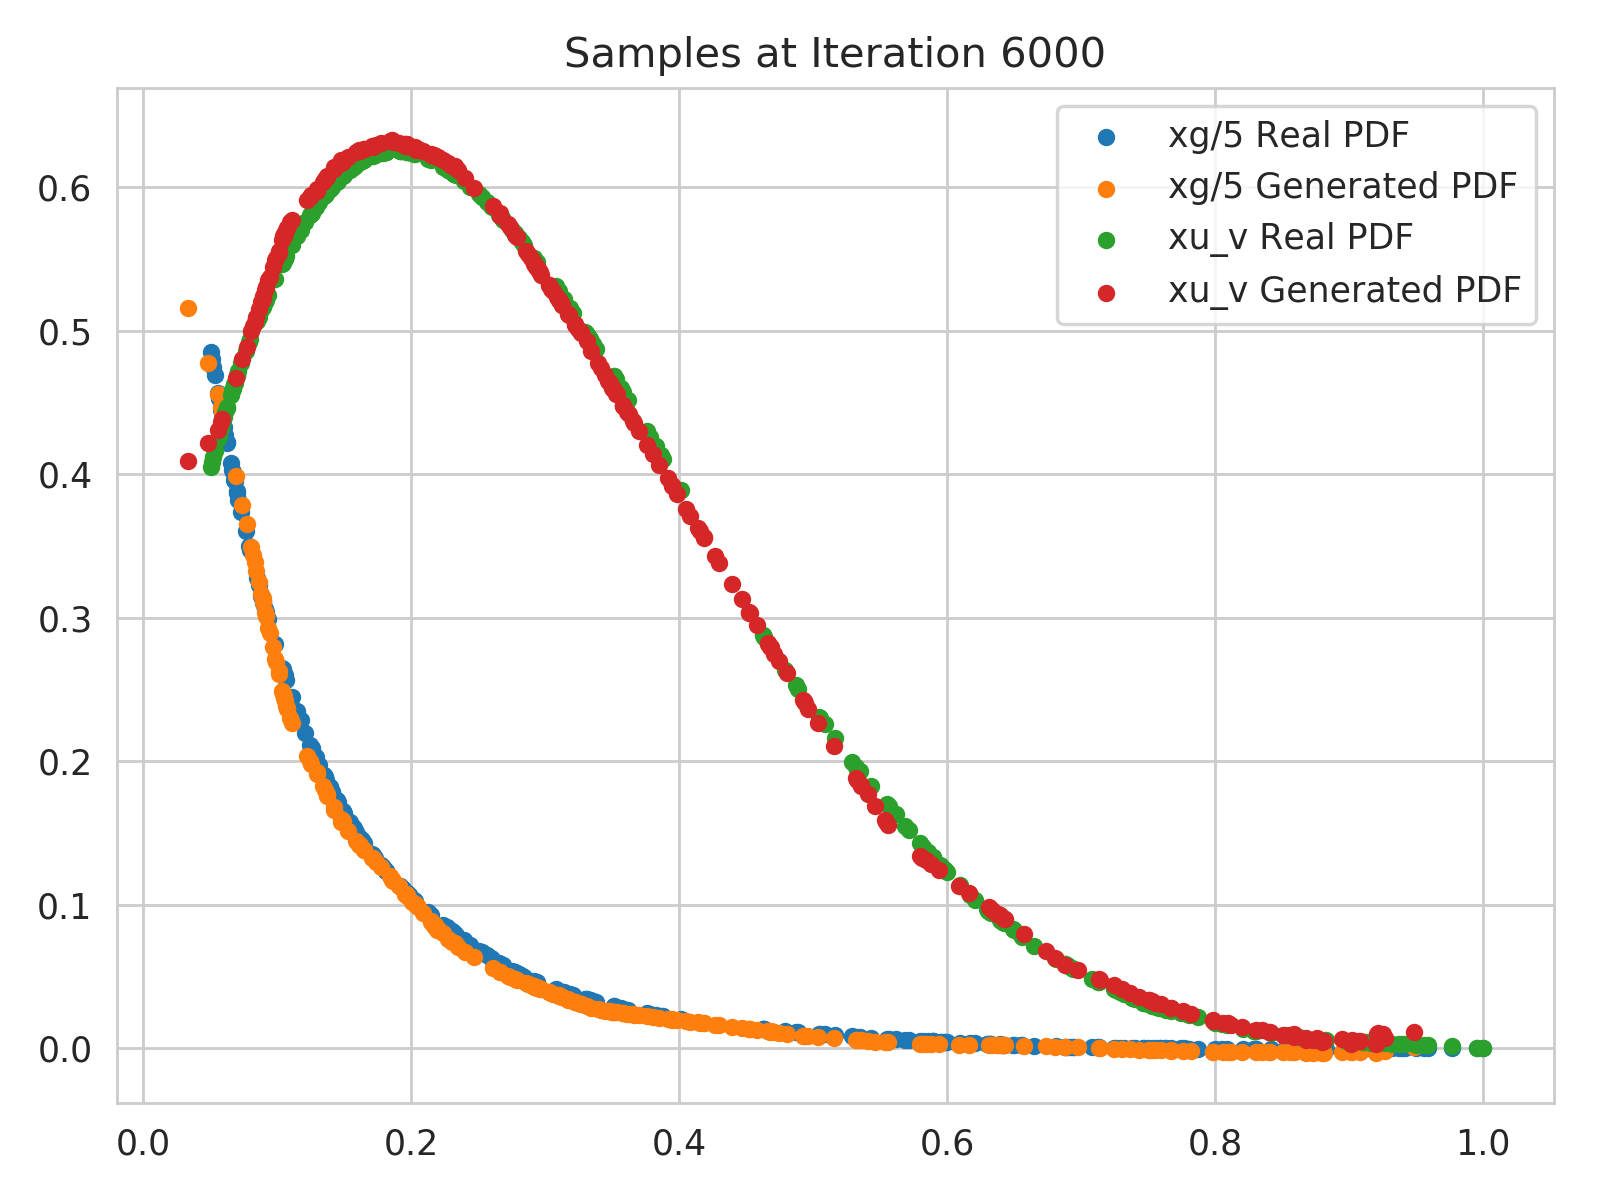
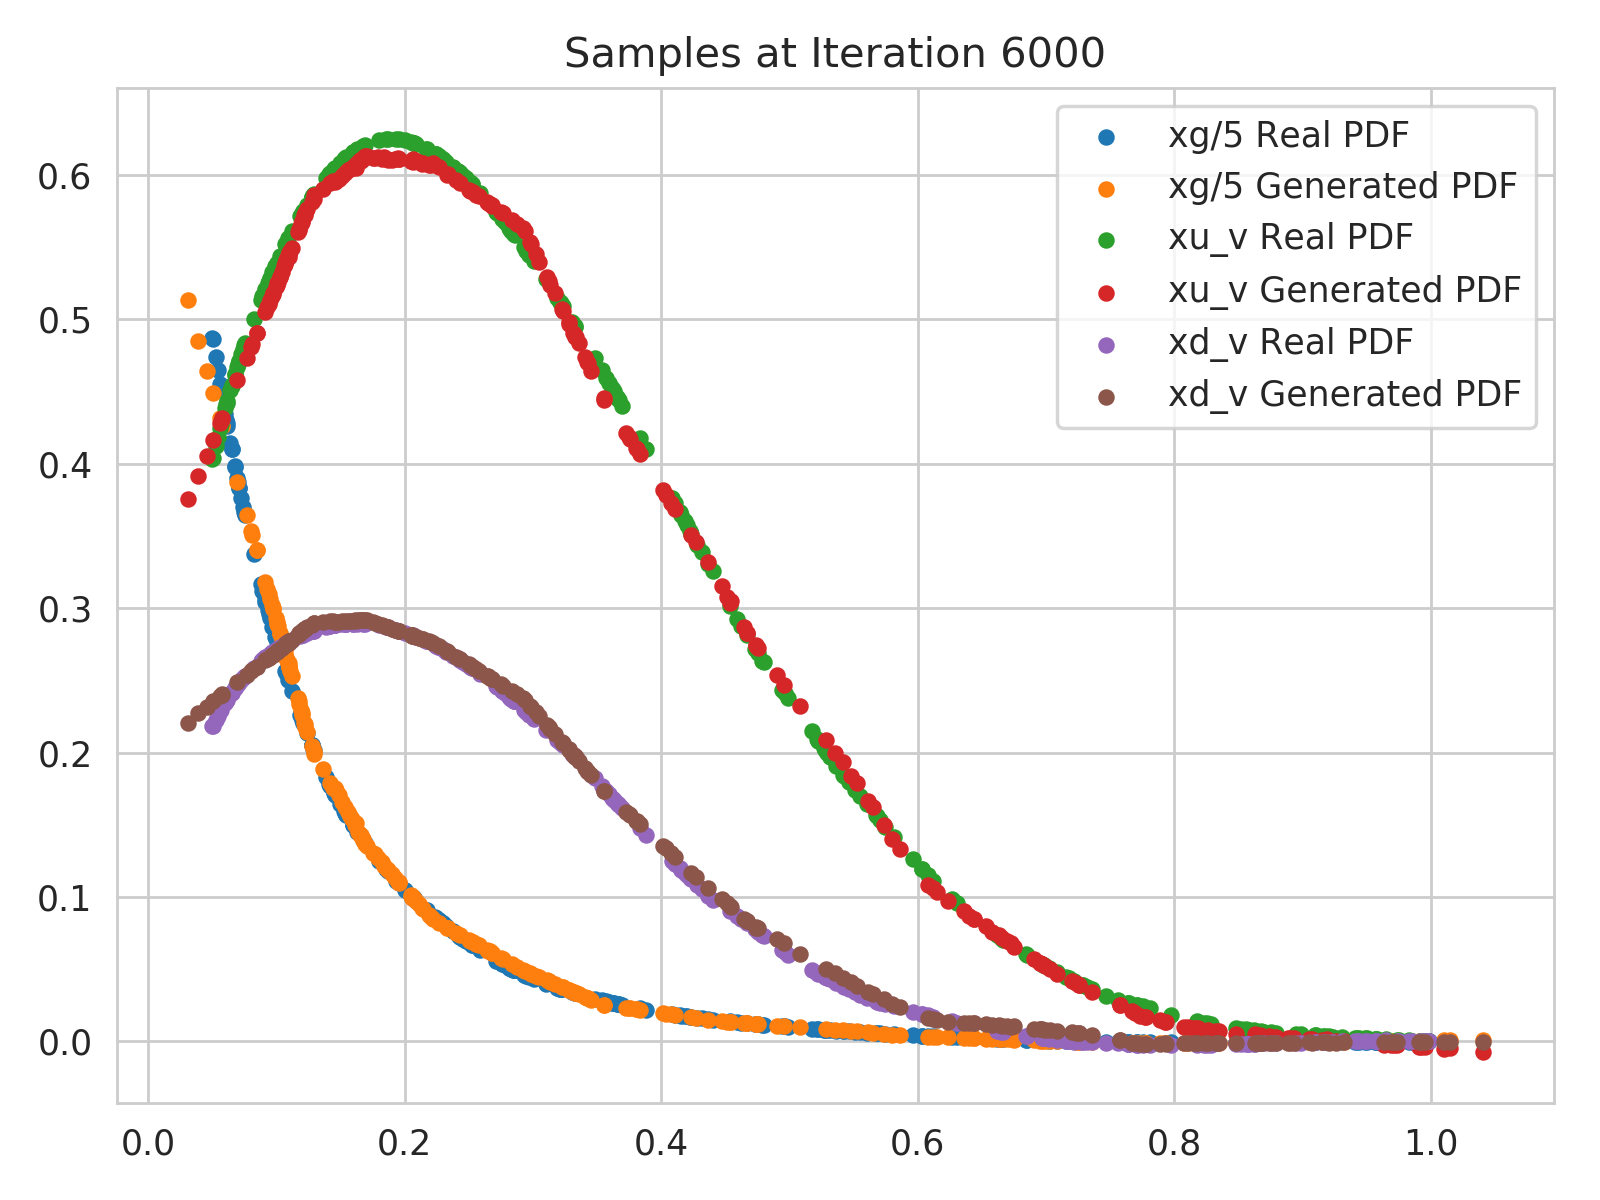
Add another d valence quark pllots

diff --git a/PDFs_Replicas/GANs_Gluon.py b/PDFs_Replicas/GANs_Gluon.py
@@ -36,7 +36,8 @@ def sample_pdf(n=1000):
     for x in x_pdf:
         y_pdf1 = pdf_central.xfxQ2(21,x,Q_pdf)/5                                # gluon
         y_pdf2 = pdf_central.xfxQ2(2,x,Q_pdf)-pdf_central.xfxQ2(-2,x,Q_pdf)     # valence u_quark
-        data.append([x,y_pdf1,y_pdf2])
+        y_pdf3 = pdf_central.xfxQ2(1,x,Q_pdf)-pdf_central.xfxQ2(-1,x,Q_pdf)     # valence u_quark
+        data.append([x,y_pdf1,y_pdf2,y_pdf3])
     return np.array(data)
 
 # Define the function which samples the Data
@@ -53,6 +54,10 @@ def sorting(lst):
 
 # Define the hidden layers 
 hidden = [16,16]
+# Take the data shape
+data_shape = sample_pdf().shape[1]
+
+
 # Implement the GENERATOR Model
 
 # The following function takes the follwoing as input:
@@ -66,10 +71,9 @@ def generator(input_noise, layers_size=hidden,reuse=False):
         # Define the 1st and 2nd layer with "leaky_relu" as an activation fucnction
         L1 = tf.layers.dense(input_noise,layers_size[0],activation=tf.nn.leaky_relu)
         L2 = tf.layers.dense(L1,layers_size[1],activation=tf.nn.leaky_relu)
-        # Define the output layer with 2 nodes
+        # Define the output layer with data_shape nodes
         # This dimension is correspond to the dimension of the "real dataset"
-        output = tf.layers.dense(L2,3)
-
+        output = tf.layers.dense(L2,data_shape)
     return output
 
 # Implement the DISCRIMINATOR Model
@@ -85,18 +89,17 @@ def discriminator(input_true,layers_size=hidden,reuse=False):
         L1 = tf.layers.dense(input_true,layers_size[0],activation=tf.nn.leaky_relu)
         L2 = tf.layers.dense(L1,layers_size[1],activation=tf.nn.leaky_relu)
         # Fix the third layer to 2 nodes so we can visualize the transformed feature space in a 2D plane
-        L3 = tf.layers.dense(L2,3)
+        L3 = tf.layers.dense(L2,data_shape)
         # Define the output layer (logit)
         output = tf.layers.dense(L3,1)
-
     return output, L3
 
 # Adversarial Training
 
 # Initialize the placeholder for the real sample
-X = tf.placeholder(tf.float32,[None,3])
+X = tf.placeholder(tf.float32,[None,data_shape])
 # Initialize the placeholder for the random sample
-Z = tf.placeholder(tf.float32,[None,3])
+Z = tf.placeholder(tf.float32,[None,data_shape])
 
 # Define the Graph which Generate fake data from the Generator and feed the Discriminator
 G_sample = generator(Z)
@@ -135,7 +138,7 @@ numb_training = 10001
 # Training
 for i in range(numb_training):
     X_batch = sample_pdf(n=batch_size)
-    Z_batch = sample_noise(batch_size, 3)
+    Z_batch = sample_noise(batch_size,data_shape)
 
     # Train independently G&D in multiple steps
     for _ in range(nd_steps):
@@ -155,13 +158,16 @@ for i in range(numb_training):
         g_plot = sess.run(G_sample, feed_dict={Z: Z_batch})
 
         plt.figure()
-        xax_g = plt.scatter(x_plot[:,0],x_plot[:,1],s=16)
-        gax_g = plt.scatter(g_plot[:,0],g_plot[:,1],s=16)
+        xax_g = plt.scatter(x_plot[:,0],x_plot[:,1],s=14)
+        gax_g = plt.scatter(g_plot[:,0],g_plot[:,1],s=14)
 
-        xax_u = plt.scatter(x_plot[:,0],x_plot[:,2],s=16)
-        gax_u = plt.scatter(g_plot[:,0],g_plot[:,2],s=16)
+        xax_u = plt.scatter(x_plot[:,0],x_plot[:,2],s=14)
+        gax_u = plt.scatter(g_plot[:,0],g_plot[:,2],s=14)
 
-        plt.legend((xax_g,gax_g,xax_u,gax_u), ("xg/5 Real PDF","xg/5 Generated PDF","xu_v Real PDF","xu_v Generated PDF"))
+        xax_d = plt.scatter(x_plot[:,0],x_plot[:,3],s=14)
+        gax_d = plt.scatter(g_plot[:,0],g_plot[:,3],s=14)
+
+        plt.legend((xax_g,gax_g,xax_u,gax_u,xax_d,gax_d), ("xg/5 Real PDF","xg/5 Generated PDF","xu_v Real PDF","xu_v Generated PDF","xd_v Real PDF","xd_v Generated PDF"))
         plt.title('Samples at Iteration %d'%i)
         plt.tight_layout()
         plt.savefig('iterations/iteration_%d.png'%i, dpi=250)
